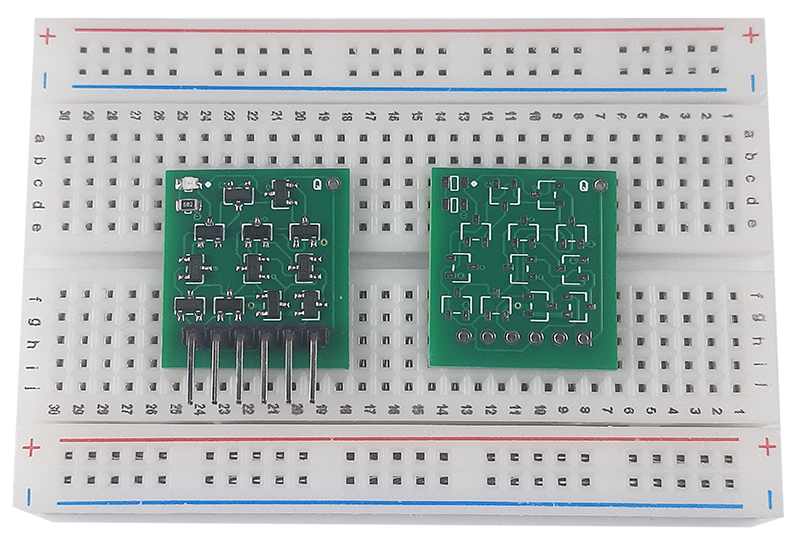
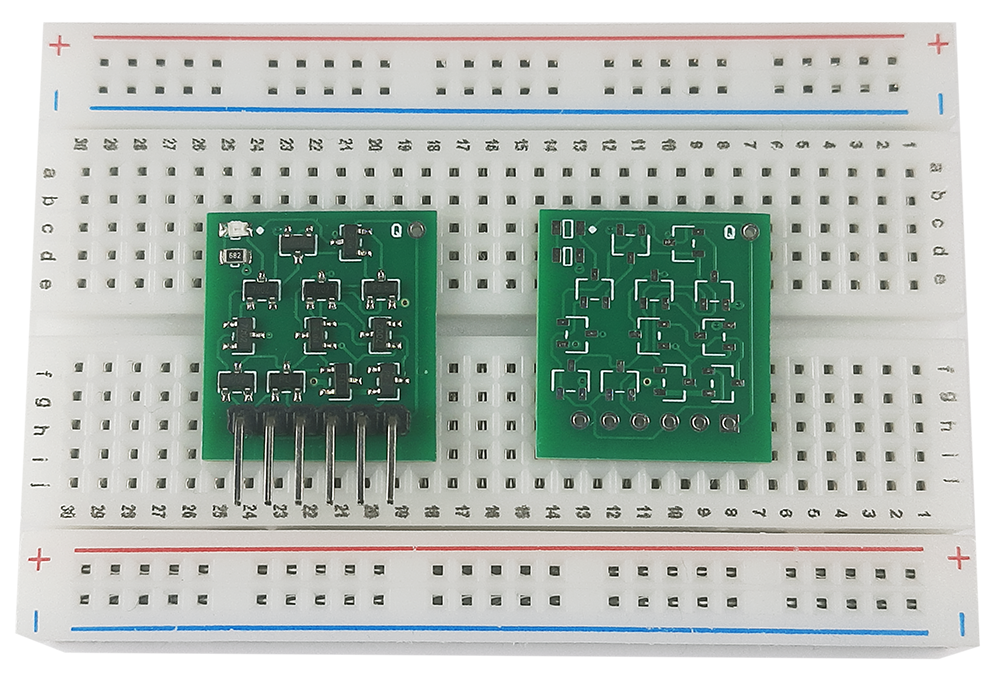
Update module pages and pictures

diff --git a/pages/en/modules/and.md b/pages/en/modules/and.md
@@ -1,6 +1,6 @@
 ---
-title: "myLogic: NOR gate"
-subtitle: A NOR gate built with 4 CMOS transistors
+title: "myLogic: AND gate"
+subtitle: A AND gate built with 6 CMOS transistors
 layout: page
 show_sidebar: false
 hide_footer: true
@@ -11,6 +11,6 @@ hero_darken: false
 > The content is under development, the final version will be as soon as possible.
 <br/>
 <figure class="center">
-    <img src="{{ site.baseurl }}/img/modules/myLogic_nor.png" alt="NOR gate module" title="NOR gate module" width="600px">
-    <figcaption>NOR gate module</figcaption>
+    <img src="{{ site.baseurl }}/img/modules/myLogic_and.png" alt="AND gate module" title="AND gate module" width="600px">
+    <figcaption>AND gate module</figcaption>
 </figure>

diff --git a/pages/en/modules/or.md b/pages/en/modules/or.md
@@ -1,6 +1,6 @@
 ---
-title: "myLogic: NOR gate"
-subtitle: A NOR gate built with 4 CMOS transistors
+title: "myLogic: OR gate"
+subtitle: A OR gate built with 6 CMOS transistors
 layout: page
 show_sidebar: false
 hide_footer: true
@@ -11,6 +11,6 @@ hero_darken: false
 > The content is under development, the final version will be as soon as possible.
 <br/>
 <figure class="center">
-    <img src="{{ site.baseurl }}/img/modules/myLogic_nor.png" alt="NOR gate module" title="NOR gate module" width="600px">
-    <figcaption>NOR gate module</figcaption>
+    <img src="{{ site.baseurl }}/img/modules/myLogic_or.png" alt="OR gate module" title="OR gate module" width="600px">
+    <figcaption>OR gate module</figcaption>
 </figure>

diff --git a/pages/en/modules/dnot.md b/pages/en/modules/dnot.md
@@ -1,0 +1,16 @@
+---
+title: "myLogic: Dual NOT gate"
+subtitle: A Dual NOT gate built with 4 CMOS transistors
+layout: page
+show_sidebar: false
+hide_footer: true
+hide_hero: false
+hero_height: hero-minHeigth
+hero_darken: false
+---
+> The content is under development, the final version will be as soon as possible.
+<br/>
+<figure class="center">
+    <img src="{{ site.baseurl }}/img/modules/myLogic_dnot.png" alt="Dual NOT gate module" title="Dual NOT gate module" width="600px">
+    <figcaption>Dual NOT gate module</figcaption>
+</figure>

diff --git a/pages/en/modules/not.md b/pages/en/modules/not.md
@@ -1,0 +1,16 @@
+---
+title: "myLogic: NOT gate"
+subtitle: A single NOT gate built with 2 CMOS transistors
+layout: page
+show_sidebar: false
+hide_footer: true
+hide_hero: false
+hero_height: hero-minHeigth
+hero_darken: false
+---
+> The content is under development, the final version will be as soon as possible.
+<br/>
+<figure class="center">
+    <img src="{{ site.baseurl }}/img/modules/myLogic_not.png" alt="NOT gate module" title="NOT gate module" width="600px">
+    <figcaption>Single NOT gate module</figcaption>
+</figure>

diff --git a/pages/en/modules/xnor.md b/pages/en/modules/xnor.md
@@ -1,0 +1,16 @@
+---
+title: "myLogic: XNOR gate"
+subtitle: A XNOR gate built with 12 CMOS transistors
+layout: page
+show_sidebar: false
+hide_footer: true
+hide_hero: false
+hero_height: hero-minHeigth
+hero_darken: false
+---
+> The content is under development, the final version will be as soon as possible.
+<br/>
+<figure class="center">
+    <img src="{{ site.baseurl }}/img/modules/myLogic_xnor.png" alt="XNOR gate module" title="XNOR gate module" width="600px">
+    <figcaption>XNOR gate module</figcaption>
+</figure>

diff --git a/pages/en/modules/modules.md b/pages/en/modules/modules.md
@@ -13,13 +13,13 @@ hero_darken: false
 <br/>
 
 * [NAND gate](/pages/en/modules/nand)
-* [NOR gate]()
-* [AND gate]()
-* [OR gate]()
-* [XOR gate]()
-* [XNOR gate]()
-* [NOT gate]()
-* [Dual NOT gate]()
+* [NOR gate](/pages/en/modules/nor)
+* [AND gate](/pages/en/modules/and)
+* [OR gate](/pages/en/modules/or)
+* [XOR gate](/pages/en/modules/xor)
+* [XNOR gate](/pages/en/modules/xnor)
+* [NOT gate](/pages/en/modules/not)
+* [Dual NOT gate](/pages/en/modules/dnot)
 * [NAND3 gate]()
 * [NOR3 gate]()
 * [OR3 gate]()

diff --git a/pages/en/modules/nand.md b/pages/en/modules/nand.md
@@ -11,6 +11,6 @@ hero_darken: false
 > The content is under development, the final version will be as soon as possible.
 <br/>
 <figure class="center">
-    <img src="{{ site.baseurl }}/img/modules/myLogic_nand.png" alt="NAND gate module" title="NAND gate module" width="500px">
+    <img src="{{ site.baseurl }}/img/modules/myLogic_nand.png" alt="NAND gate module" title="NAND gate module" width="600px">
     <figcaption>NAND gate module</figcaption>
 </figure>

diff --git a/pages/en/modules/xor.md b/pages/en/modules/xor.md
@@ -11,6 +11,6 @@ hero_darken: false
 > The content is under development, the final version will be as soon as possible.
 <br/>
 <figure class="center">
-    <img src="{{ site.baseurl }}/img/modules/myLogic_xor.png" alt="XOR gate module" title="XOR gate module" width="500px">
+    <img src="{{ site.baseurl }}/img/modules/myLogic_xor.png" alt="XOR gate module" title="XOR gate module" width="600px">
     <figcaption>XOR gate module</figcaption>
 </figure>
